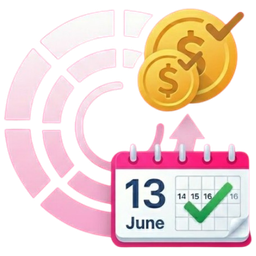
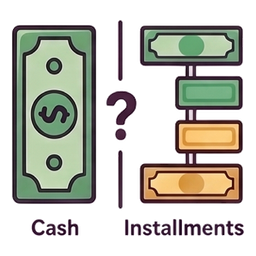
feat(tools): أيقونات مخصّصة لكل الأدوات (إزالة الخلفية البيضاء + ضغط 500KB→~100KB) وربطها في الأدوات والكاروسيل

diff --git a/src/app/(main)/page.tsx b/src/app/(main)/page.tsx
@@ -696,13 +696,13 @@ export default function DashboardPage() {
           <div className="flex gap-3 overflow-x-auto scrollbar-hide pb-1">
             {[
               { href: '/tools/currency',     label: 'العملات',   icon: '💱', image: '/tools/currency.png', bg: 'linear-gradient(135deg,#60b8ff,#1a6fd4)' },
-              { href: '/tools/worth-it',     label: 'يستحق؟',    icon: '⚡', bg: 'linear-gradient(135deg,#b47fff,#5b21b6)' },
+              { href: '/tools/worth-it',     label: 'يستحق؟',    icon: '⚡', image: '/tools/worth-it.png', bg: 'linear-gradient(135deg,#b47fff,#5b21b6)' },
               { href: '/tools/split-bill',   label: 'الفاتورة',  icon: '🍽', bg: 'linear-gradient(135deg,#34d399,#047857)' },
               { href: '/tools/installment',  label: 'التقسيط',   icon: '📊', image: '/tools/installment.png', bg: 'linear-gradient(135deg,#38bdf8,#0369a1)' },
-              { href: '/tools/habit-cost',   label: 'عادتي',     icon: '☕', bg: 'linear-gradient(135deg,#facc15,#b45309)' },
+              { href: '/tools/habit-cost',   label: 'عادتي',     icon: '☕', image: '/tools/habit-cost.png', bg: 'linear-gradient(135deg,#facc15,#b45309)' },
               { href: '/tools/wedding',      label: 'الزواج',    icon: '💍', image: '/tools/wedding.png', bg: 'linear-gradient(135deg,#f472b6,#9d174d)' },
-              { href: '/tools/debts',        label: 'الديون',    icon: '🤝', bg: 'linear-gradient(135deg,#fb923c,#b45309)' },
-              { href: '/tools/silftna',      label: 'سلفتنا',    icon: '🔄', bg: 'linear-gradient(135deg,#2dd4bf,#0d9488)' },
+              { href: '/tools/debts',        label: 'الديون',    icon: '🤝', image: '/tools/debts.png', bg: 'linear-gradient(135deg,#fb923c,#b45309)' },
+              { href: '/tools/silftna',      label: 'سلفتنا',    icon: '🔄', image: '/tools/silftna.png', bg: 'linear-gradient(135deg,#2dd4bf,#0d9488)' },
             ].map(t => (
               <Link key={t.href} href={t.href} className="flex flex-col items-center gap-2 shrink-0 active:scale-95 transition-transform">
                 <div className="w-14 h-14 rounded-2xl flex items-center justify-center text-2xl shadow-sm overflow-hidden" style={{ background: t.bg }}>

diff --git a/src/app/(main)/tools/page.tsx b/src/app/(main)/tools/page.tsx
@@ -17,7 +17,7 @@ const TOOLS = [
     label: 'هل يستحق؟',
     sub: 'أيام العمل والنسب',
     icon: '⚡',
-    image: null,
+    image: '/tools/worth-it.png',
     gradient: 'linear-gradient(135deg, #b47fff 0%, #5b21b6 100%)',
     shimmer: 'linear-gradient(135deg, #c99fff 0%, #7034d0 100%)',
   },
@@ -44,7 +44,7 @@ const TOOLS = [
     label: 'كم تكلفني عادتي؟',
     sub: 'شهري · سنوي · 5 سنوات',
     icon: '☕',
-    image: null,
+    image: '/tools/habit-cost.png',
     gradient: 'linear-gradient(135deg, #facc15 0%, #b45309 100%)',
     shimmer: 'linear-gradient(135deg, #fde047 0%, #ca6a10 100%)',
   },
@@ -62,7 +62,7 @@ const TOOLS = [
     label: 'دفتر الديون',
     sub: 'لك وعليك',
     icon: '🤝',
-    image: null,
+    image: '/tools/debts.png',
     gradient: 'linear-gradient(135deg, #fb923c 0%, #b45309 100%)',
     shimmer: 'linear-gradient(135deg, #ffa55a 0%, #ca6a10 100%)',
   },
@@ -71,7 +71,7 @@ const TOOLS = [
     label: 'سلفتنا',
     sub: 'السلف الدوّارة',
     icon: '🔄',
-    image: null,
+    image: '/tools/silftna.png',
     gradient: 'linear-gradient(135deg, #2dd4bf 0%, #0d9488 100%)',
     shimmer: 'linear-gradient(135deg, #5eead4 0%, #14b8a6 100%)',
   },